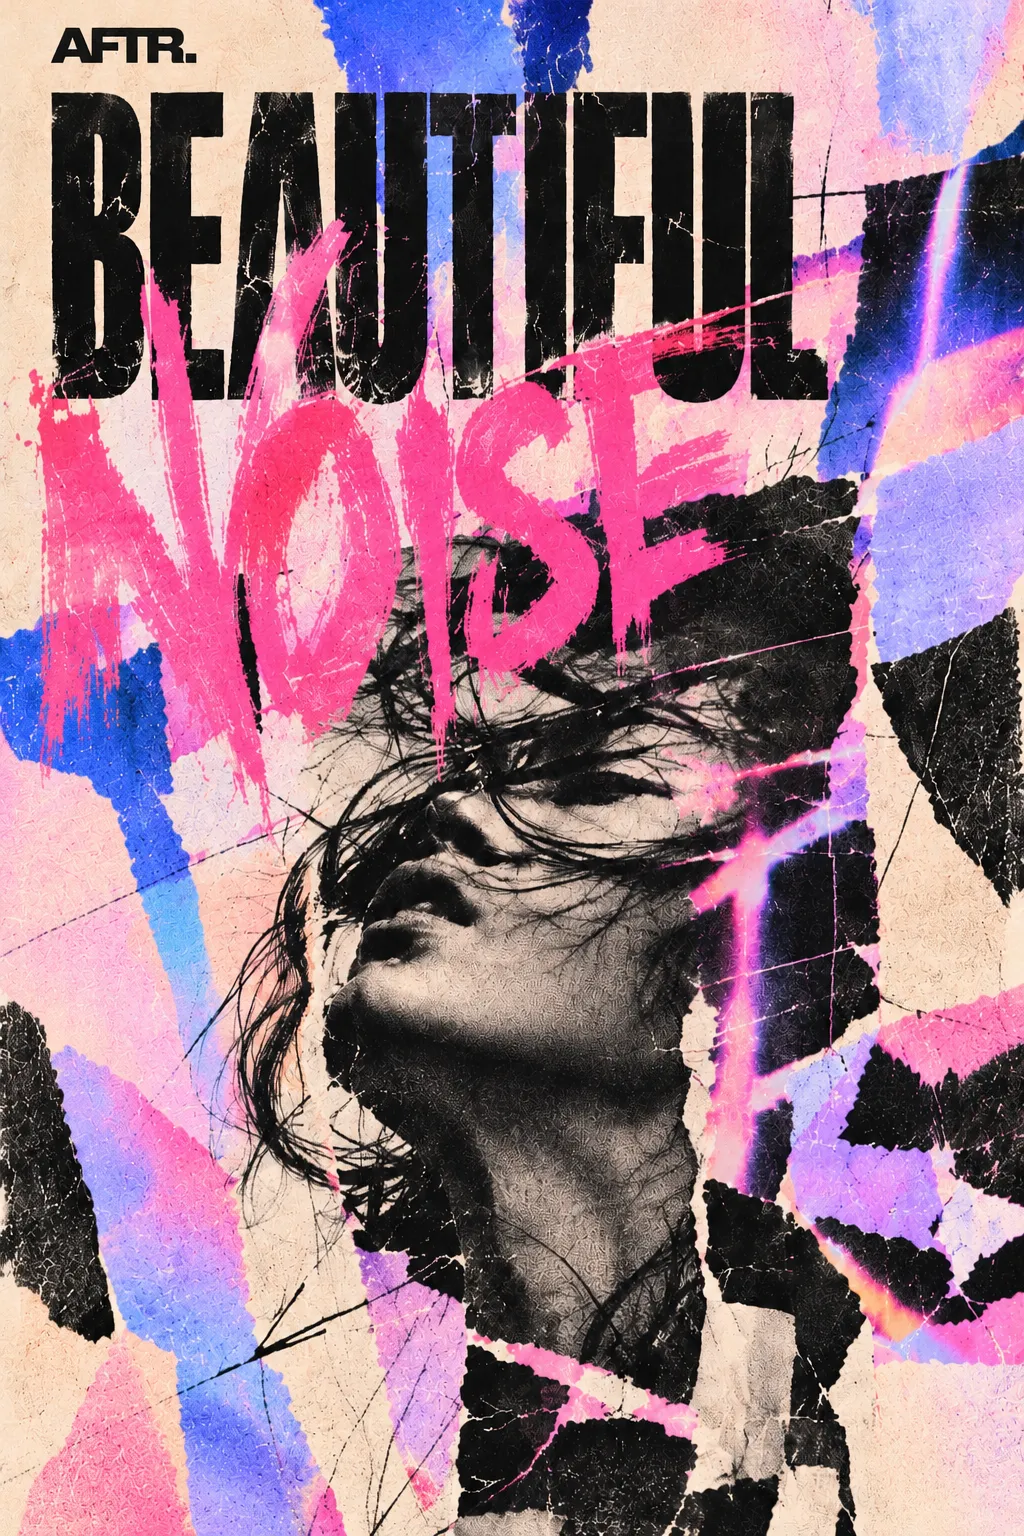
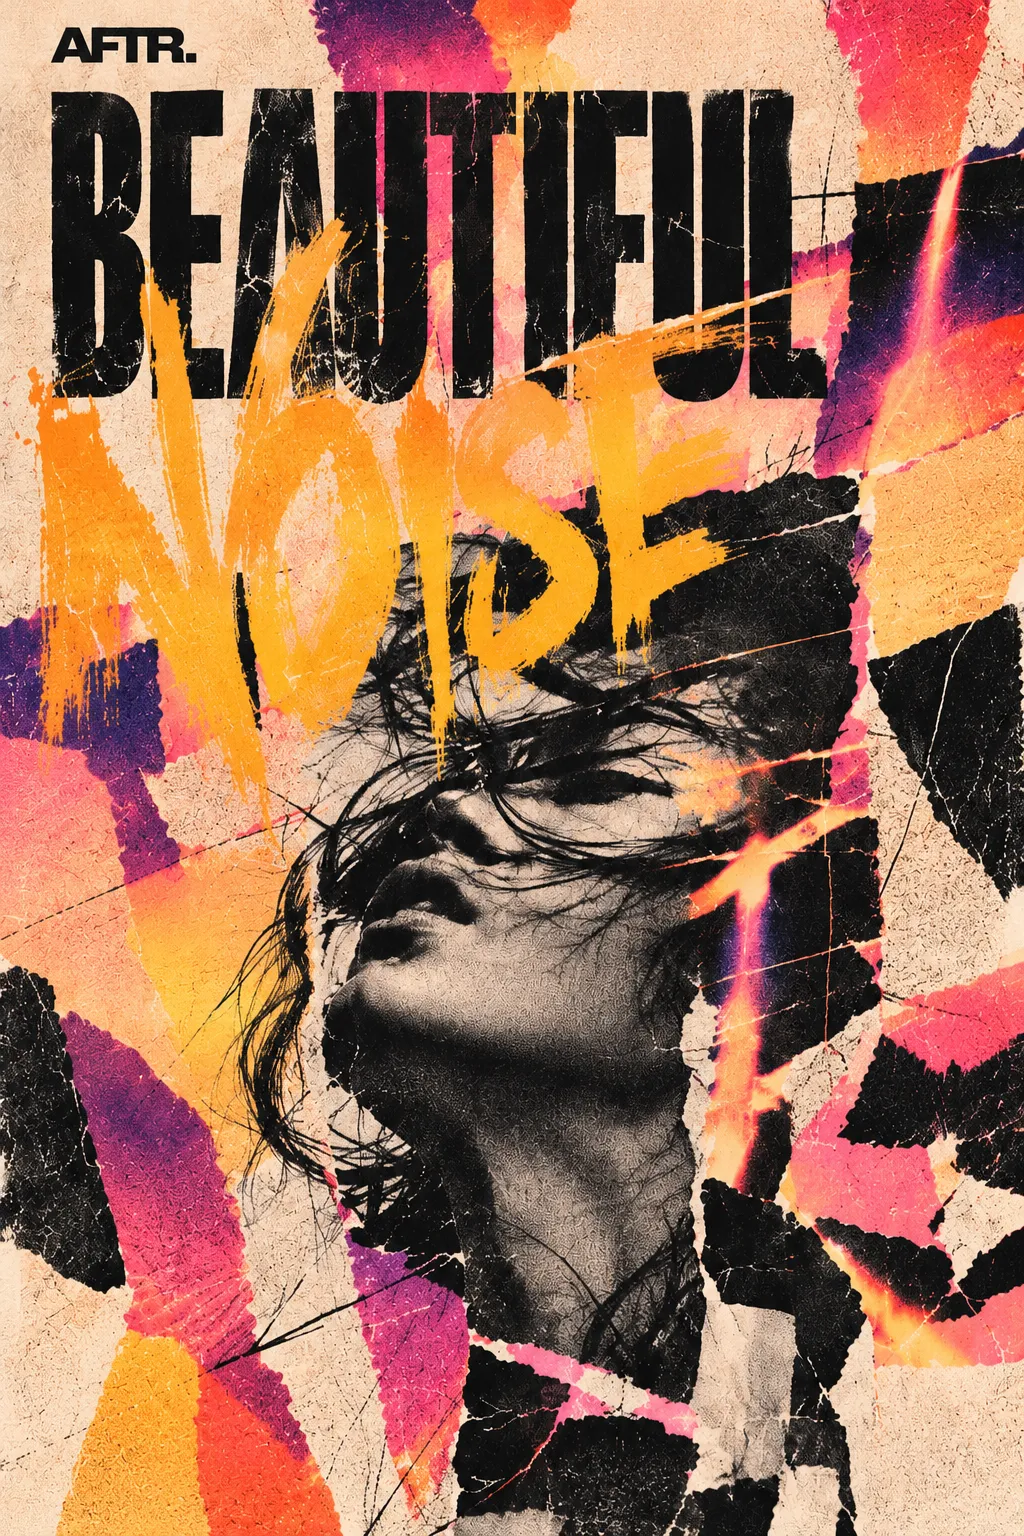
Play: Beautiful Noise in orange, yellow and magenta
The third poster in place of the second (same size, balance untouched), its
intro naming the fiery orange, yellow and magenta, and its glow the poster's
orange.

diff --git a/play.html b/play.html
@@ -1064,12 +1064,12 @@
         </div>
         <video class="play-loop" src="images/rouen-sliced.mp4" width="1920" height="1080" muted loop playsinline preload="none" disablepictureinpicture aria-label="Rouen, Sliced, a painted Gothic facade cut into vertical strips, each lit at a different hour, sliding across the building as a whole day passes over the stone" style="width:100%;height:auto;display:block;"></video>
       </div>
-      <div class="play-card" style="--glow:#f45f9d;--mo:1">
+      <div class="play-card" style="--glow:#f4aa45;--mo:1">
         <div class="play-info">
           <div class="play-info-top"><h3>Beautiful Noise</h3><span class="play-year">2026</span></div>
-          <p>An experimental rock branding poster exploring the beauty of distortion. Oversized typography, torn paper collage, and vibrant pink and violet tones collide with a windswept portrait, turning the raw energy of rock and roll into something expressive and immersive. Made with GPT Image 2.5.</p>
+          <p>An experimental rock branding poster exploring the beauty of distortion. Oversized typography, torn paper collage, and fiery shades of orange, yellow, and magenta collide with a windswept portrait, transforming the raw energy of rock and roll into something expressive and immersive. Made with GPT Image 2.5.</p>
         </div>
-        <img loading="lazy" decoding="async" width="1024" height="1536" src="images/beautiful-noise.webp?v=2" alt="Beautiful Noise, a rock branding poster: oversized black type and a pink painted NOISE over torn pink, violet and black paper, around a black and white portrait with windswept hair" class="play-img-photo">
+        <img loading="lazy" decoding="async" width="1024" height="1536" src="images/beautiful-noise.webp?v=3" alt="Beautiful Noise, a rock branding poster: oversized black type and a yellow painted NOISE over torn orange, magenta and black paper, around a black and white portrait with windswept hair" class="play-img-photo">
       </div>
       <div class="play-card" style="--glow:#62399f;--mo:8">
         <div class="play-info">

diff --git a/.claude/notes/play.md b/.claude/notes/play.md
@@ -2,6 +2,8 @@
 
 Moved word for word from CLAUDE.md on 2026-09-27 (the full original is `git show f7f52ee:CLAUDE.md`). CLAUDE.md holds the current state and the standing rules; this file is the history behind them. Entries keep their original order, and where two disagree, the later-dated one or the one marked SUPERSEDES wins. Add new entries at the top, directly under this paragraph.
 
+- **BEAUTIFUL NOISE IN ORANGE, YELLOW AND MAGENTA (2026-10-15, per user, with the third poster: "change beautiful noise to this one ... fiery shades of orange, yellow, and magenta ... transforming the raw energy ...", then "push"; play.html and images/beautiful-noise.webp; PUSHED TO MAIN 2026-10-15 per user "push").** The poster replaced in place again (his file as given, 1024x1536 WebP, 437 KB; same size, so the deal, the 0.47% to 1.82% balance and the aligned Claude loop row are untouched), src now ?v=3; the caption takes his new words ("fiery shades of orange, yellow, and magenta", "transforming"; "torn paper collage" still unhyphenated); the glow moved from the pink #f45f9d to the poster's orange #f4aa45 (the strongest hue, 30°); the alt text names the new colours. Checked: detail page, phone order, no errors.
+
 - **OCTOCRAB AND ABOUT THE TEDDY BEAR HIDDEN (2026-10-15, per user "can we hide both octocrab and teddy bear and see if you can it balanced", then "push"; play.html only; PUSHED TO MAIN 2026-10-15 per user "push").** Only two 2020 films are left (I Believe in a Thing Called Love, UN/FOLD), so in three columns one column cannot end on a film: the search let one column end on its oldest piece. THREE COLUMNS, his placements kept, four moves: Whisper XR, Futuristic Starship Cockpit and I Believe in a Thing Called Love to the left, TickerPulse to the middle (which now ends on Missing Pavilion, 2021), Market Street, Mirror and UN/FOLD on the right: 1.82% at 1200, 1.40% at 1440, 0.47% at 2560 (six moves would have given 1.51%); the Claude loop row still within 4px; slideshows apart. TWO COLUMNS, three moves: Beautiful Noise under Rouen, Sliced on the right, Futuristic Starship Cockpit and UN/FOLD to the left (UN/FOLD closes it): 0.01% to 0.17%, loop row within 62px. Phones: Scope > Beautiful Noise > The Last Human Gestures > Perfect Copy > Midjourney. No errors. Search in scratchpad playsearch11.py; the page before is play.before-hide-oc-teddy.html.
 
 - **FORTUNE, RETURNED AND RUNNING DOG HIDDEN; OCTOCRAB HIDDEN, THEN BACK (2026-10-15, per user "hide octocrab and fortune returned", "also running dog", "Hide all three anyway" (asked: the three-column bottoms could not line up), then "add back Octocrab to make columns more even", then "push"; play.html only; PUSHED TO MAIN 2026-10-15 per user "push").** With Octocrab, Fortune, Returned and Running Dog all out, the three columns could not close: his placements kept, 6.7% at best (TickerPulse left, Mirror middle, built and shown: 6.0% at 1200 to 6.7% at 2560, the right column longest); 4.4% only by moving six of his cards; keeping Running Dog would have given 1.1%, keeping Octocrab 1.7% (offered; he chose to hide all three, then brought Octocrab back). Now, Octocrab visible again: THREE COLUMNS Octocrab under Luma, Whisper XR and Missing Pavilion to the middle, Mirror to the right (three moves, every placement kept, the Claude loop row still within 4px): 1.51% at 1200 to 1.09% at 2560 (1.11% at 1440). TWO COLUMNS (loop row kept within 120px in the search): Perfect Copy back above the loops on the left, Midjourney under Rouen, Sliced, Octocrab under Midjourney, Market Street left, Mirror right, About the Teddy Bear closing the left column: 0.09% to 0.59%, loop row within 62px. Phones: Scope > Beautiful Noise > The Last Human Gestures > Octocrab > Perfect Copy. Every column runs newest to oldest and ends on a 2020 film (only three left: About the Teddy Bear, I Believe in a Thing Called Love, UN/FOLD); the slideshows stay apart. No errors. Searches in scratchpad playsearch6.py to playsearch10.py.
